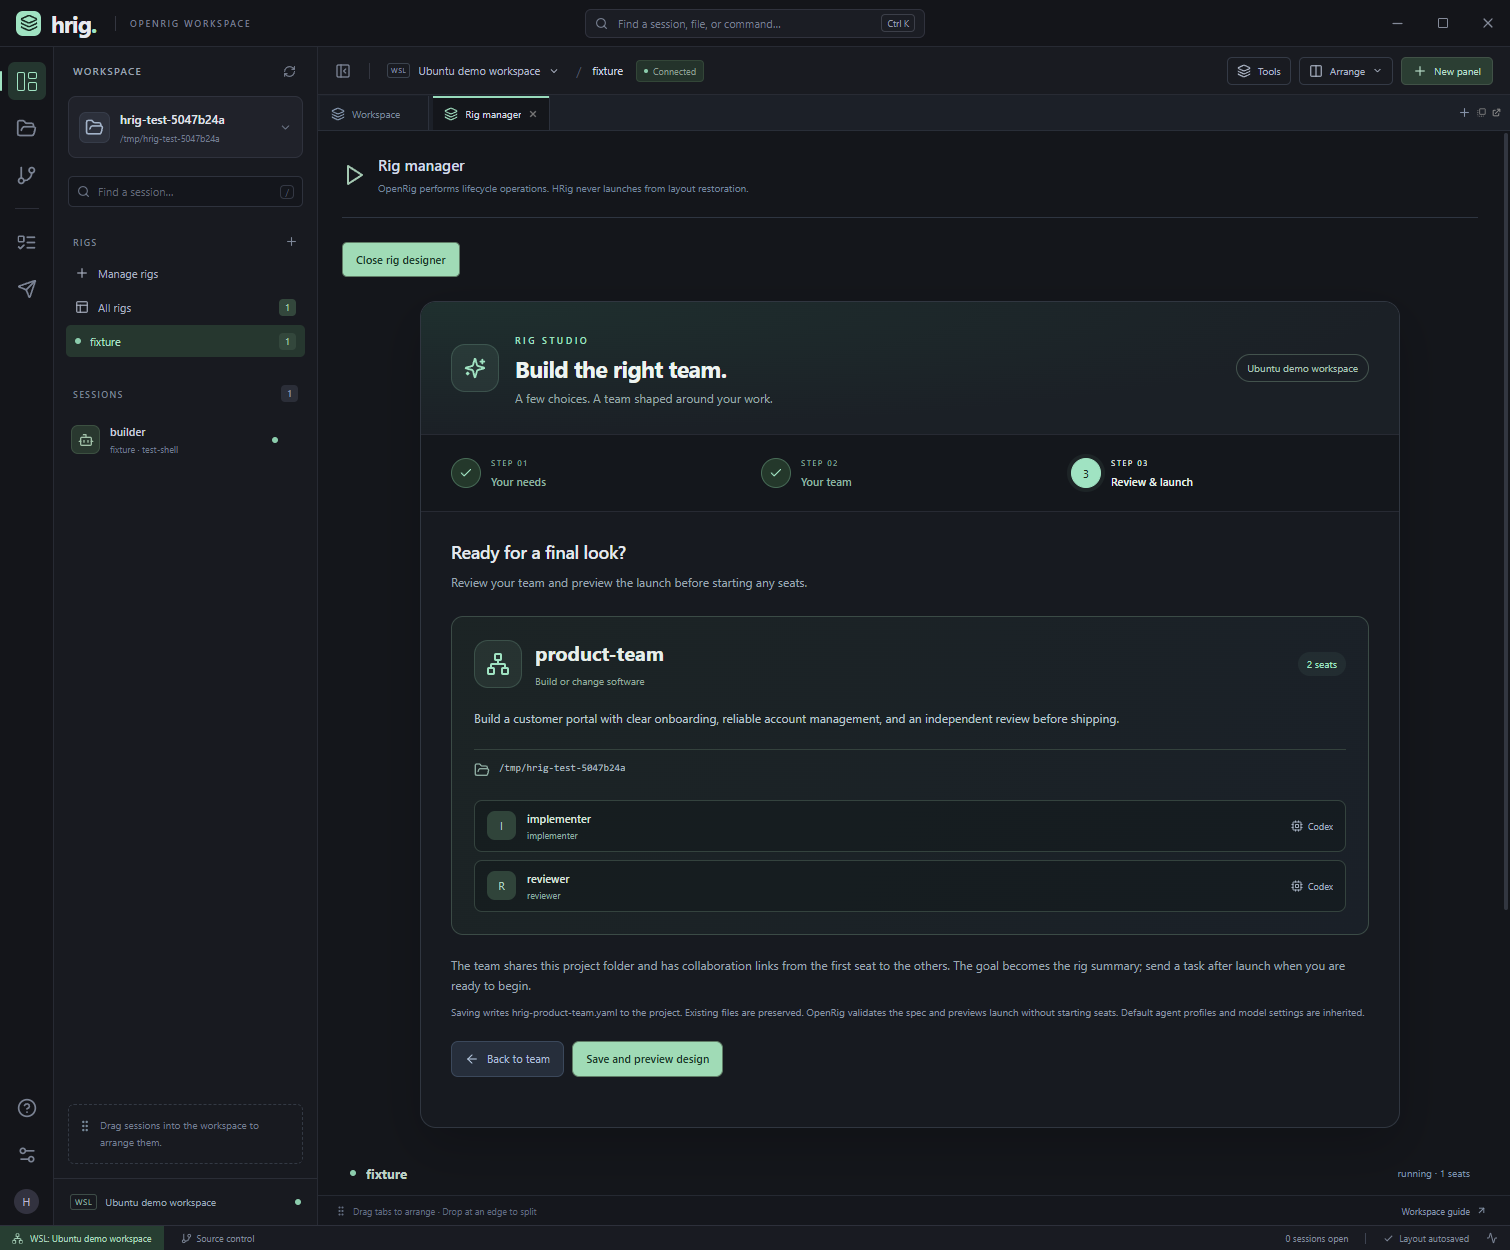
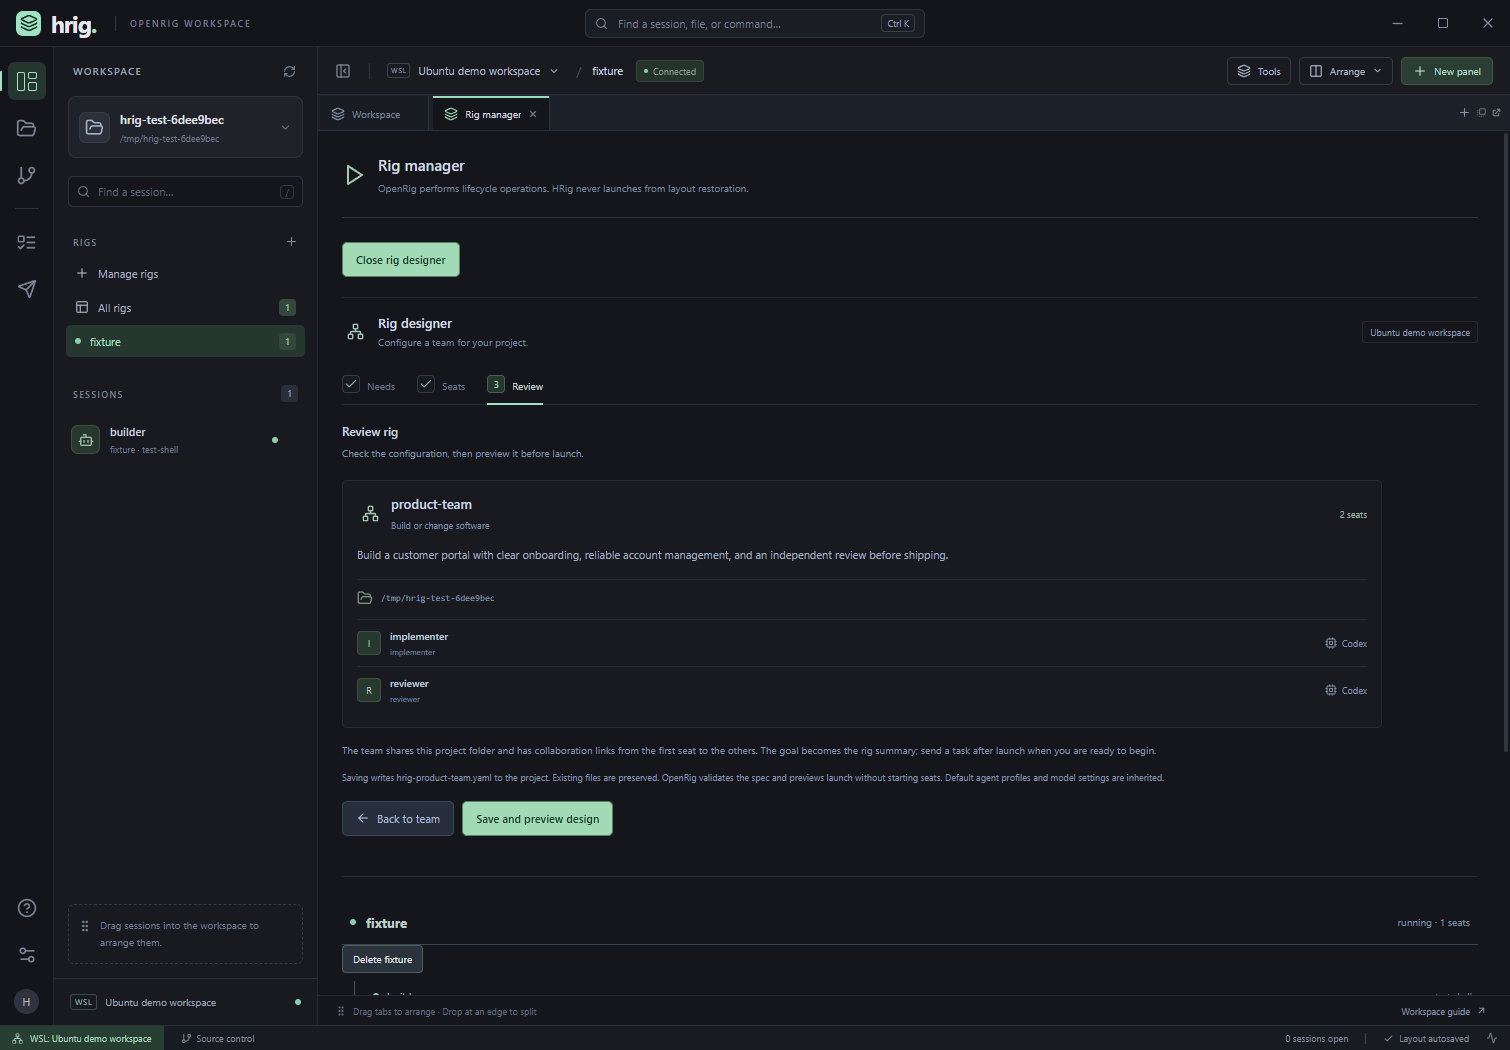
Refresh README screenshots for the compact rig designer

diff --git a/README.md b/README.md
@@ -156,3 +156,7 @@ To publish a prepared release, build and smoke-test the executable, add detailed
 ### Rig Studio visual update (0.6.1)
 
 The designer uses a three-step progress indicator, visual work and team choices, agent seat cards, and a compact roster review. It adapts to narrow docked panels. Preview details are expandable while launch warnings remain visible.
+
+### Wizard appearance (0.6.2)
+
+The rig designer now follows the workspace tool panels: compact headings and steps, shared control styling, flat surfaces, restrained mint selections, and denser forms and seat layouts. The screenshots above show the updated interface.
